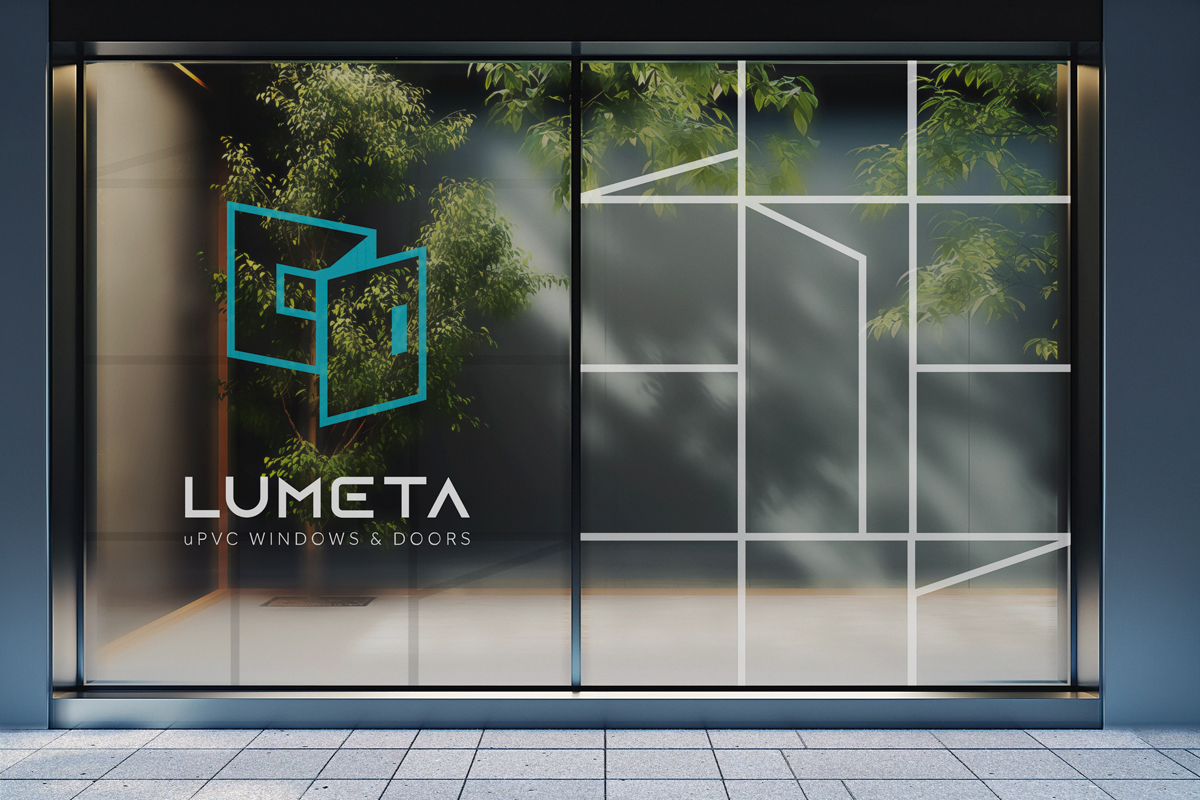
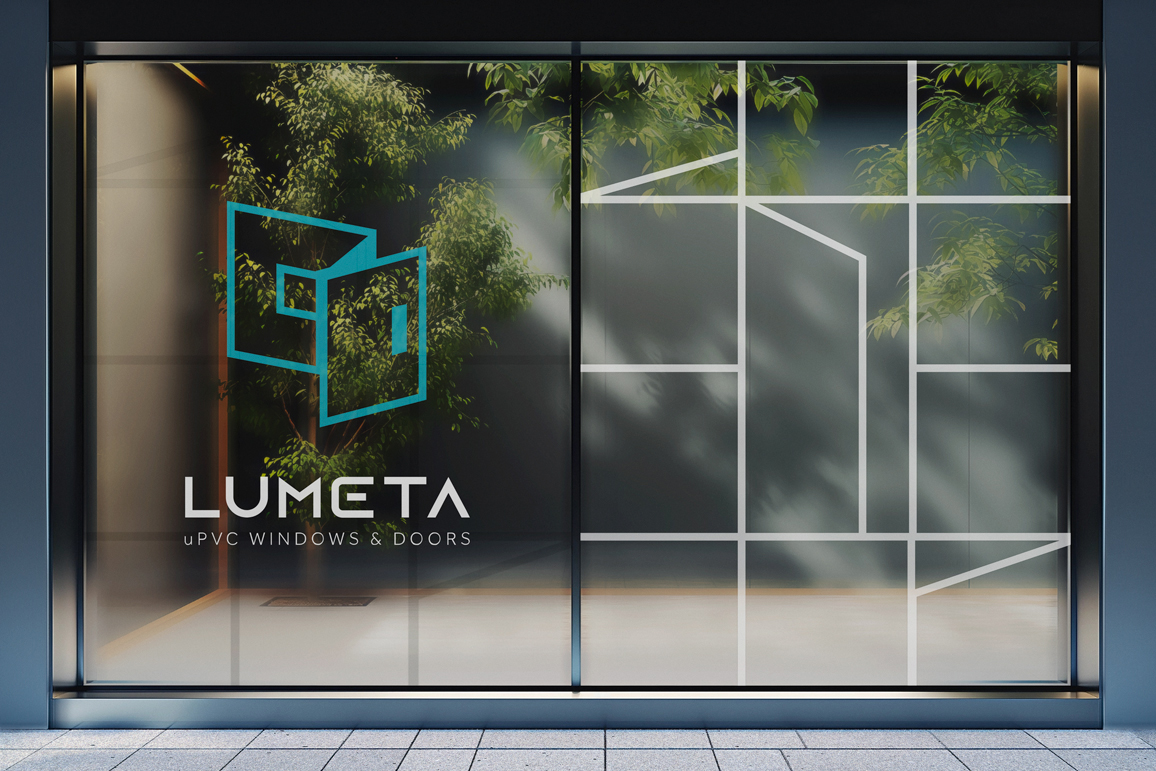
update

diff --git a/lumeta.html b/lumeta.html
@@ -139,7 +139,15 @@
                                                                         >
                                                                             <!-- images -->
                                                                        
-                                                                        
+                                                                            <div class="cbp-item col-lg-6">
+                                                                                <div class="cbp-caption-defaultWrap">
+                                                                                    <img
+                                                                                        src="assets/images/portfolio/projects/Lumeta/lumeta-bus-cards.jpeg"
+                                                                                        class="portfolio-media-image"
+                                                                                        alt="Lumeta"
+                                                                                    />
+                                                                                </div>
+                                                                            </div>
 
 
                                                                             <div class="cbp-item col-lg-6">
@@ -152,15 +160,7 @@
                                                                                 </div>
                                                                             </div>
 
-                                                                            <div class="cbp-item col-lg-6">
-                                                                                <div class="cbp-caption-defaultWrap">
-                                                                                    <img
-                                                                                        src="assets/images/portfolio/projects/Lumeta/lumeta-bus-cards.jpeg"
-                                                                                        class="portfolio-media-image"
-                                                                                        alt="Lumeta"
-                                                                                    />
-                                                                                </div>
-                                                                            </div>
+                                                                        
 
                                                                             <div class="cbp-item">
                                                                                 <div class="cbp-caption-defaultWrap">
@@ -203,7 +203,7 @@
                                                                             <div class="cbp-item col-lg-6">
                                                                                 <div class="cbp-caption-defaultWrap">
                                                                                     <img
-                                                                                        src="assets/images/portfolio/projects/Lumeta/lumeta-poster.jpeg"
+                                                                                        src="assets/images/portfolio/projects/Lumeta/windowshopsignage.jpg"
                                                                                         class="portfolio-media-image"
                                                                                         alt="Lumeta"
                                                                                     />